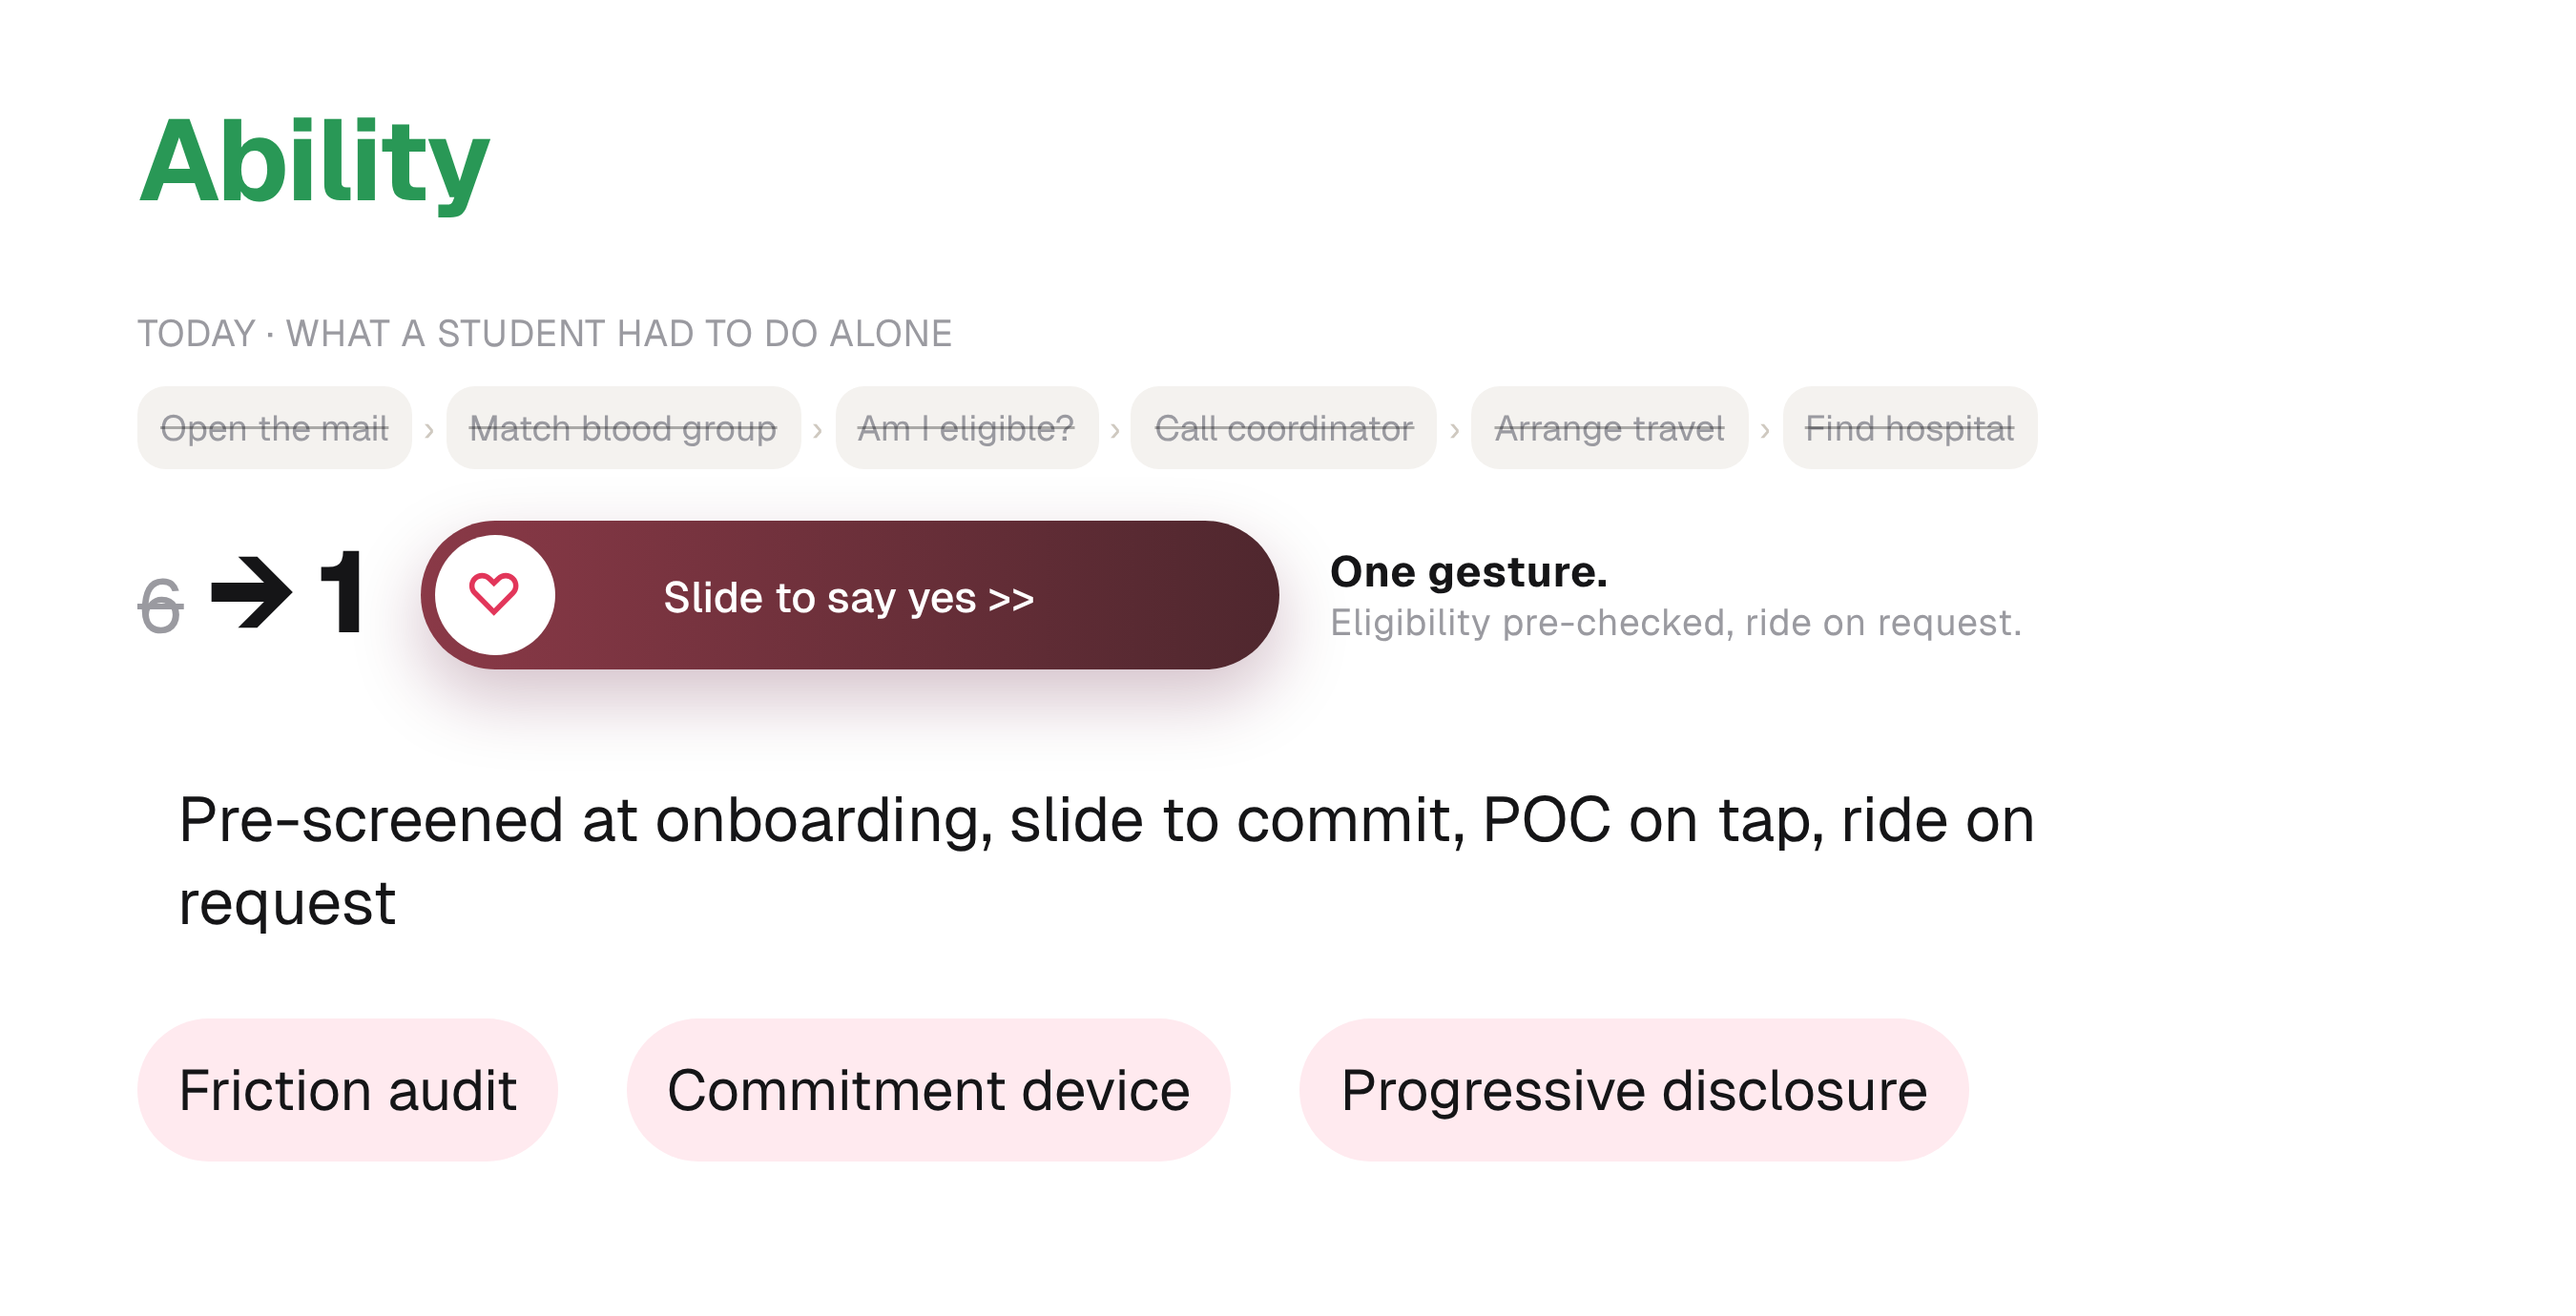
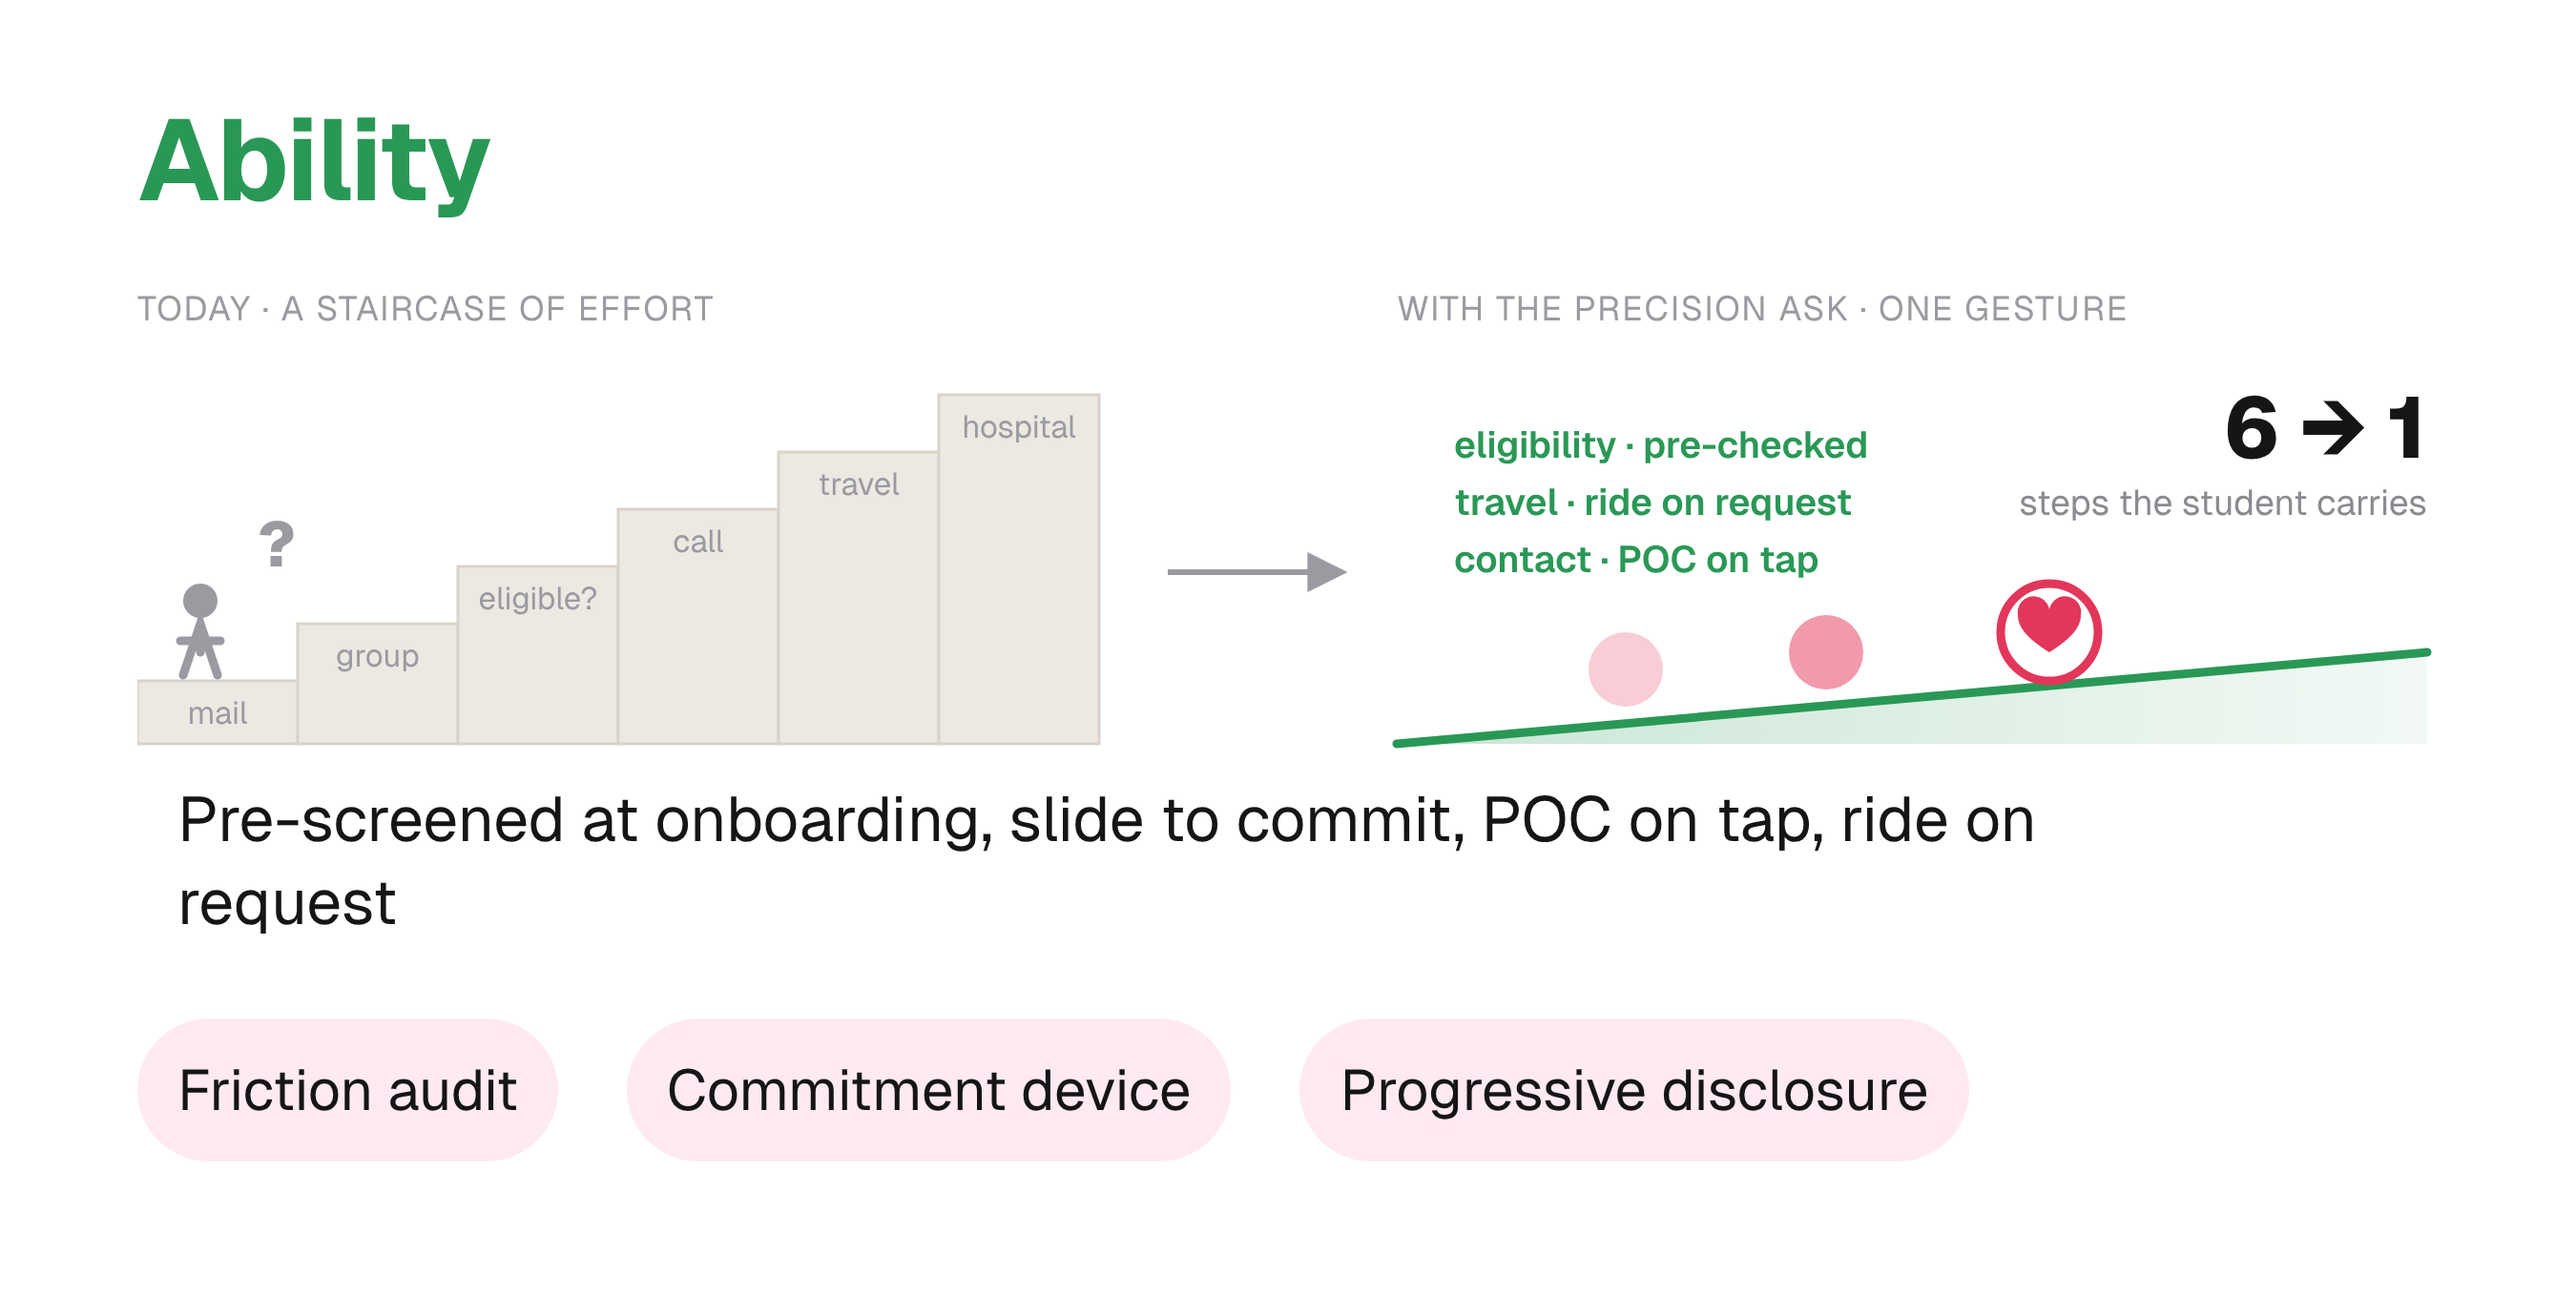
Approach modules: concept visuals for Ability and Prompt
Claude-Session: https://claude.ai/code/session_01GaKacWWLGLNQouYaKsuzQY

diff --git a/design/exhibition/approach_modules/modules.html b/design/exhibition/approach_modules/modules.html
@@ -3,7 +3,7 @@
 <head>
 <meta charset="utf-8">
 <style>
-  @font-face { font-family: Geist; src: local("Geist") /* Geist, from onestop_ui */; font-weight: 100 900; }
+  @font-face { font-family: Geist; src: local("Geist"); font-weight: 100 900; }
   :root { --green: #299856; --ink: #151517; --ink2: #4A4A50; --muted: #9A9AA0; --chip: #FFEAEF; --pink: #FFF6F8; --line: #EDE3E6; --red: #E2365A; }
   * { box-sizing: border-box; margin: 0; padding: 0; }
   body { background: #fff; font-family: Geist, Inter, system-ui, sans-serif; color: var(--ink); }
@@ -67,6 +67,17 @@
   .move { top: 272px; }
   .chips { top: 356px; }
   #prompt .art, #loop .art { margin-top: 18px; }
+
+  .concept text { font-family: Geist, Inter, sans-serif; }
+  .concept .lab { font-size: 12px; fill: #9A9AA0; letter-spacing: .6px; }
+  .concept .stp text { font-size: 11px; fill: #9A9AA0; text-anchor: middle; }
+  .concept .q { font-size: 22px; font-weight: 800; fill: #9A9AA0; }
+  .concept .abs2 text { font-size: 13px; fill: #299856; font-weight: 600; }
+  .concept .big { font-size: 30px; font-weight: 800; fill: #151517; }
+  .concept .sm { font-size: 12.5px; fill: #8A8A90; }
+  .concept .ann { font-size: 15px; font-weight: 700; fill: #6E6A63; }
+  .concept .ann.red { fill: #E2365A; }
+  #ability .art, #prompt .art { margin-top: 18px; height: 170px; }
 </style>
 </head>
 <body>
@@ -75,15 +86,45 @@
 <div class="m" id="ability">
   <h1>Ability</h1>
   <div class="art">
-    <div class="cap">TODAY · WHAT A STUDENT HAD TO DO ALONE</div>
-    <div class="steps" style="margin-top:10px">
-      <span class="st">Open the mail</span><i>›</i><span class="st">Match blood group</span><i>›</i><span class="st">Am I eligible?</span><i>›</i><span class="st">Call coordinator</span><i>›</i><span class="st">Arrange travel</span><i>›</i><span class="st">Find hospital</span>
-    </div>
-    <div class="collapse">
-      <div class="count"><s>6</s><b>→ 1</b></div>
-      <div class="slider"><div class="knob">♡</div>Slide to say yes &gt;&gt;</div>
-      <div class="cap"><b>One gesture.</b><br>Eligibility pre-checked, ride on request.</div>
-    </div>
+    <svg width="804" height="170" viewBox="0 0 804 170" class="concept">
+      <defs><marker id="ar" viewBox="0 0 10 10" refX="8" refY="5" markerWidth="7" markerHeight="7" orient="auto"><path d="M0 0L10 5L0 10z" fill="#9A9AA0"/></marker>
+      <linearGradient id="ramp" x1="0" x2="1"><stop offset="0" stop-color="#299856" stop-opacity=".25"/><stop offset="1" stop-color="#299856" stop-opacity=".06"/></linearGradient></defs>
+      <!-- Today: a staircase of effort -->
+      <text x="0" y="12" class="lab">TODAY · A STAIRCASE OF EFFORT</text>
+      <g fill="#ECE8E2" stroke="#D9D3C9">
+        <rect x="0"   y="138" width="56" height="22"/>
+        <rect x="56"  y="118" width="56" height="42"/>
+        <rect x="112" y="98"  width="56" height="62"/>
+        <rect x="168" y="78"  width="56" height="82"/>
+        <rect x="224" y="58"  width="56" height="102"/>
+        <rect x="280" y="38"  width="56" height="122"/>
+      </g>
+      <g class="stp">
+        <text x="28" y="153">mail</text><text x="84" y="133">group</text><text x="140" y="113">eligible?</text>
+        <text x="196" y="93">call</text><text x="252" y="73">travel</text><text x="308" y="53">hospital</text>
+      </g>
+      <!-- figure at the bottom, stuck -->
+      <g transform="translate(14,104)"><circle cx="8" cy="6" r="6" fill="#9A9AA0"/><path d="M2 32 L8 14 L14 32 M8 14 V24 M1 20 H15" stroke="#9A9AA0" stroke-width="3" fill="none" stroke-linecap="round"/></g>
+      <text x="42" y="98" class="q">?</text>
+      <path d="M360 100 H 420" stroke="#9A9AA0" stroke-width="2" marker-end="url(#ar)"/>
+      <!-- Now: one gentle ramp -->
+      <text x="440" y="12" class="lab">WITH THE PRECISION ASK · ONE GESTURE</text>
+      <path d="M440 160 L 800 160 L 800 128 Z" fill="url(#ramp)"/>
+      <path d="M440 160 L 800 128" stroke="#299856" stroke-width="3" stroke-linecap="round"/>
+      <!-- slider-knob heart rolling up the ramp, with a motion trail -->
+      <g opacity=".25"><circle cx="520" cy="134" r="13" fill="#E2365A"/></g>
+      <g opacity=".5"><circle cx="590" cy="128" r="13" fill="#E2365A"/></g>
+      <circle cx="668" cy="121" r="17" fill="#fff" stroke="#E2365A" stroke-width="3"/>
+      <path d="M668 128 c-8-5-11-9-11-13 a5 5 0 0 1 11-2 a5 5 0 0 1 11 2 c0 4-3 8-11 13z" fill="#E2365A"/>
+      <!-- what got absorbed by the system -->
+      <g class="abs2">
+        <text x="460" y="60">eligibility · pre-checked</text>
+        <text x="460" y="80">travel · ride on request</text>
+        <text x="460" y="100">contact · POC on tap</text>
+      </g>
+      <text x="800" y="60" class="big" text-anchor="end">6 → 1</text>
+      <text x="800" y="80" class="sm" text-anchor="end">steps the student carries</text>
+    </svg>
   </div>
   <p class="move">Pre-screened at onboarding, slide to commit, POC on tap, ride on request</p>
   <div class="chips"><span>Friction audit</span><span>Commitment device</span><span>Progressive disclosure</span></div>
@@ -93,21 +134,28 @@
 <div class="m" id="prompt">
   <h1>Prompt</h1>
   <div class="art">
-    <div class="noise">
-      <div>
-        <div class="cap" style="margin-bottom:8px">TODAY · LOST IN THE INBOX</div>
-        <div class="inbox">
-          <div class="row"><div class="a"></div><div><div class="t"></div><div class="t2"></div></div><em>10:52</em></div>
-          <div class="row s"><div class="a"></div><div><div class="t"></div><div class="t2"></div></div><em>09:14</em></div>
-          <div class="row"><div class="a"></div><div><div class="t"></div><div class="t2"></div></div><em>Yesterday</em></div>
-        </div>
-      </div>
-      <div class="vs">→</div>
-      <div>
-        <div class="cap" style="margin-bottom:8px">NOW · TOP OF ONESTOP HOME</div>
-        <div class="card"><div class="ic"><img src="drop_flame.svg" alt=""></div><small>FOR YOU · 1:59:49 LEFT</small><b>You've been matched to help</b><p>Riya needs O+ blood today.</p></div>
-      </div>
-    </div>
+    <svg width="804" height="170" viewBox="0 0 804 170" class="concept">
+      <defs><filter id="glow" x="-50%" y="-50%" width="200%" height="200%"><feGaussianBlur stdDeviation="6"/></filter></defs>
+      <text x="0" y="12" class="lab">SIGNAL-TO-NOISE</text>
+      <!-- baseline -->
+      <line x1="0" y1="150" x2="804" y2="150" stroke="#E6E1DA" stroke-width="1.5"/>
+      <!-- noise: identical mails, identical low peaks -->
+      <path id="noise" d="" fill="none" stroke="#C9C3BA" stroke-width="2" stroke-linejoin="round"/>
+      <g id="envs"></g>
+      <!-- the signal -->
+      <ellipse cx="560" cy="62" rx="44" ry="44" fill="#E2365A" opacity=".18" filter="url(#glow)"/>
+      <path d="M528 150 L 548 150 L 560 40 L 572 150 L 592 150" fill="none" stroke="#E2365A" stroke-width="3.5" stroke-linejoin="round"/>
+      <!-- the ask: drop + notification dot -->
+      <circle cx="560" cy="26" r="17" fill="#55092B"/>
+      <path d="M560 15 c0 0 -8 9 -8 14 a8 8 0 0 0 16 0 c0 -5 -8 -14 -8 -14z" fill="#FD445F"/>
+      <circle cx="574" cy="12" r="6" fill="#E2365A" stroke="#fff" stroke-width="2"/>
+      <!-- annotations -->
+      <text x="20" y="44" class="ann">"Dear all" × 3–4 a day</text>
+      <text x="20" y="62" class="sm">same shape, same size, easy to ignore</text>
+      <text x="610" y="36" class="ann red">One ask, for you</text>
+      <text x="610" y="54" class="sm">matched · just in time</text>
+      <text x="610" y="70" class="sm">where you already look</text>
+    </svg>
   </div>
   <p class="move">A matched, just-in-time ask that takes the top of OneStop Home</p>
   <div class="chips"><span>Signal-to-noise</span><span>Just-in-time prompt</span><span>Contextual placement</span></div>
@@ -133,5 +181,17 @@
   <div class="chips"><span>Peak-end rule</span><span>Closed feedback loop</span><span>Social proof</span></div>
 </div>
 
+<script>
+  // noise: many identical low bumps (one per mail), with an envelope above some
+  let d = 'M0 150', env = '';
+  for (let x = 0; x < 804; x += 26) {
+    if (x > 515 && x < 600) { d += ` L ${x} 150`; continue; }
+    d += ` L ${x + 8} 150 L ${x + 13} 126 L ${x + 18} 150`;
+    if ((x / 26) % 3 === 0 && (x < 500 || x > 610) && x > 260 || (x/26)%3===0 && x<240 && false)
+      env += `<g transform="translate(${x + 5},104)" opacity=".55"><rect width="16" height="11" rx="2" fill="none" stroke="#B9B3AA" stroke-width="1.5"/><path d="M1 1 L8 6 L15 1" fill="none" stroke="#B9B3AA" stroke-width="1.5"/></g>`;
+  }
+  document.getElementById('noise').setAttribute('d', d + ' L 804 150');
+  document.getElementById('envs').innerHTML = env;
+</script>
 </body>
 </html>
